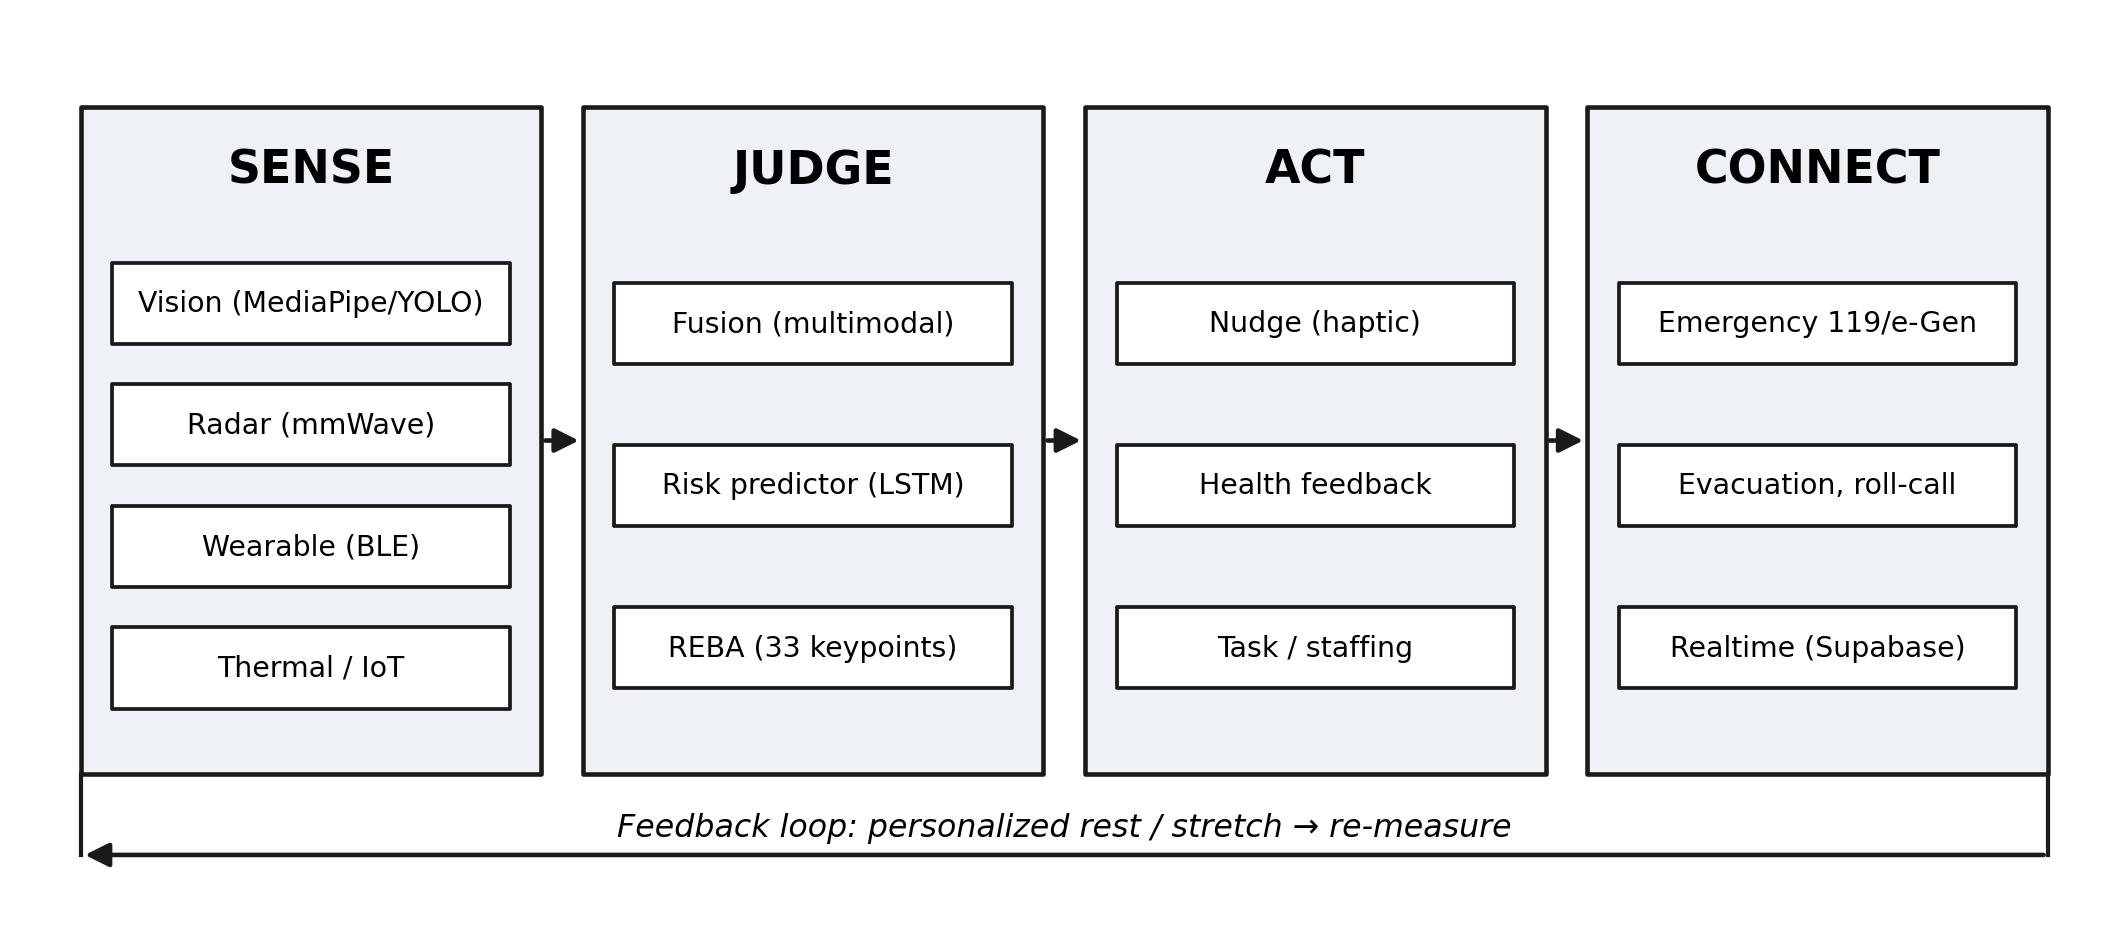
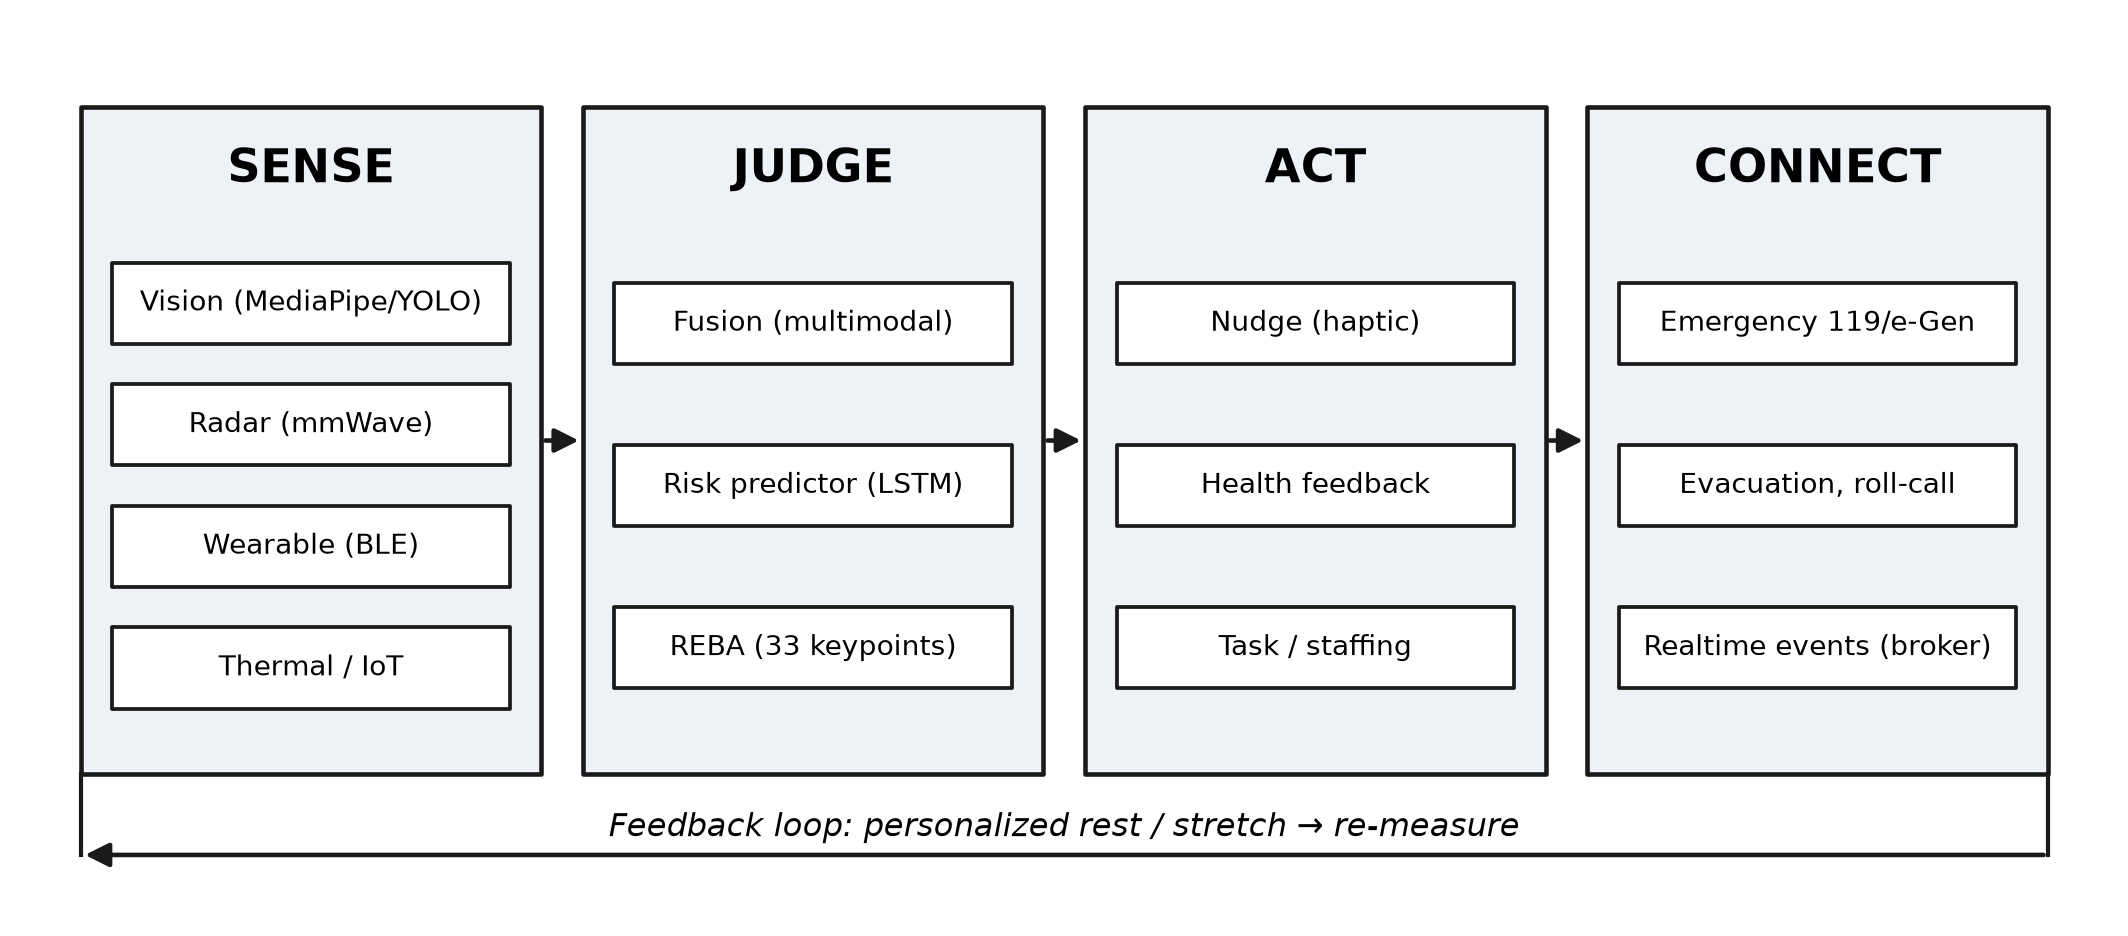
Transport-neutral architecture figures; ?demo and ?autoreplay capture/demo params; heartbeat under capture modes

diff --git a/js/console.js b/js/console.js
@@ -284,4 +284,20 @@
 
   /* a first ambient event so the feed is never empty */
   setTimeout(function () { Sim.scenario('ppe'); }, 4000);
+
+  /* demo/capture helpers via query params:
+   *   ?autoreplay — start the synthetic REPLAY on load (e.g. console.html?autoreplay#live)
+   *   ?demo       — inject a fall + fire shortly after load for guided demos */
+  if (location.search.indexOf('autoreplay') > -1) {
+    setTimeout(function () {
+      Live.state.cv = document.getElementById('live-canvas');
+      Live.state.ctx = Live.state.cv.getContext('2d');
+      Live.state.video = document.getElementById('live-video');
+      Live.startReplay();
+    }, 600);
+  }
+  if (location.search.indexOf('demo') > -1) {
+    setTimeout(function () { Sim.scenario('fall'); }, 2500);
+    setTimeout(function () { Sim.scenario('fire'); }, 5000);
+  }
 })();

diff --git a/js/sim.js b/js/sim.js
@@ -658,9 +658,11 @@
   /* ───────────────────────── public API ───────────────────────── */
 
   /* background heartbeat — rAF pauses in hidden tabs, but an edge node must
-   * keep detecting; timers still fire (~1 Hz), enough for the state machines */
+   * keep detecting; timers still fire (~1 Hz), enough for the state machines.
+   * Also active under ?demo (guided demos / headless captures, where rAF is
+   * throttled but virtual-time advances timers). */
   setInterval(function () {
-    if (document.hidden && S.running && S.workers.length) {
+    if ((document.hidden || /[?&]demo/.test(location.search)) && S.running && S.workers.length) {
       tick(1.0 * S.speed);
       renderKpi();
     }

diff --git a/js/live.js b/js/live.js
@@ -233,9 +233,10 @@
     L.raf = requestAnimationFrame(replayLoop);
   }
 
-  /* background heartbeat for REPLAY — rAF pauses in hidden tabs, timers don't */
+  /* background heartbeat for REPLAY — rAF pauses in hidden tabs, timers don't.
+   * Also active under ?autoreplay (headless captures / kiosk demos). */
   setInterval(function () {
-    if (L.mode === 'replay' && document.hidden) {
+    if (L.mode === 'replay' && (document.hidden || /[?&]autoreplay/.test(location.search))) {
       L.replayT += 1.0;
       var kps = replayKps(L.replayT, 640, 480);
       analyse(kps, 640, 480, L.replayT * 1000, 'replay');
